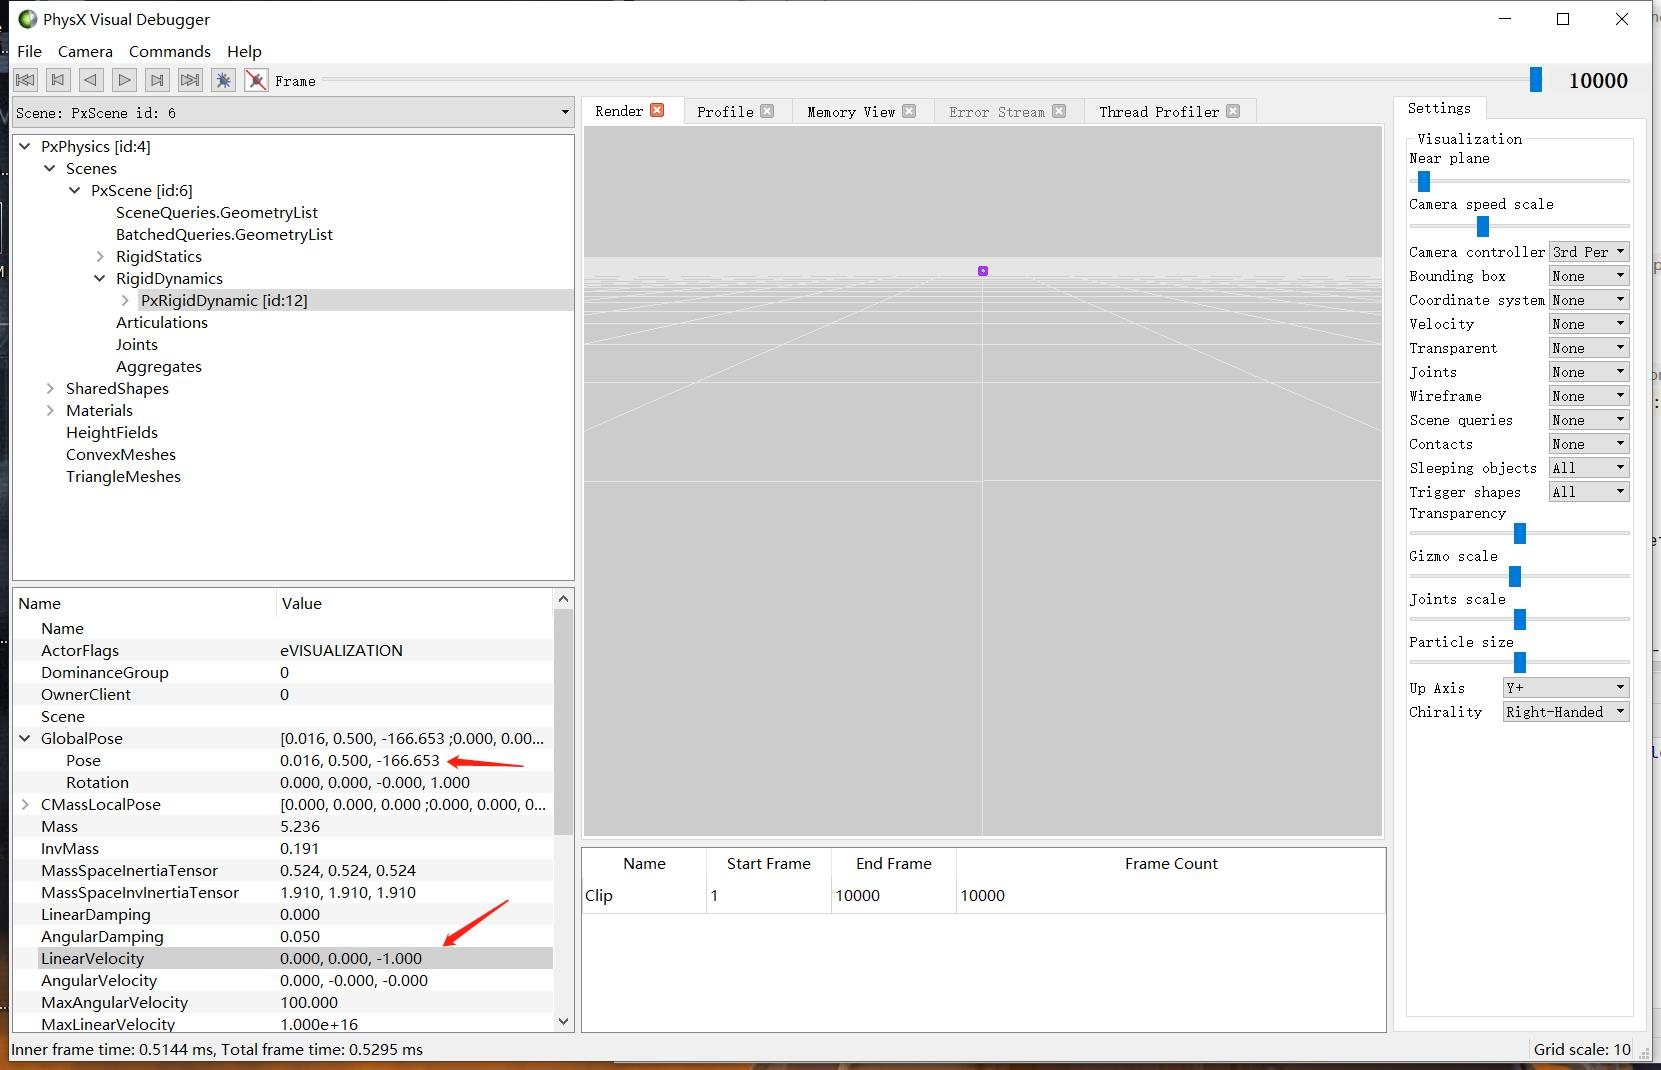
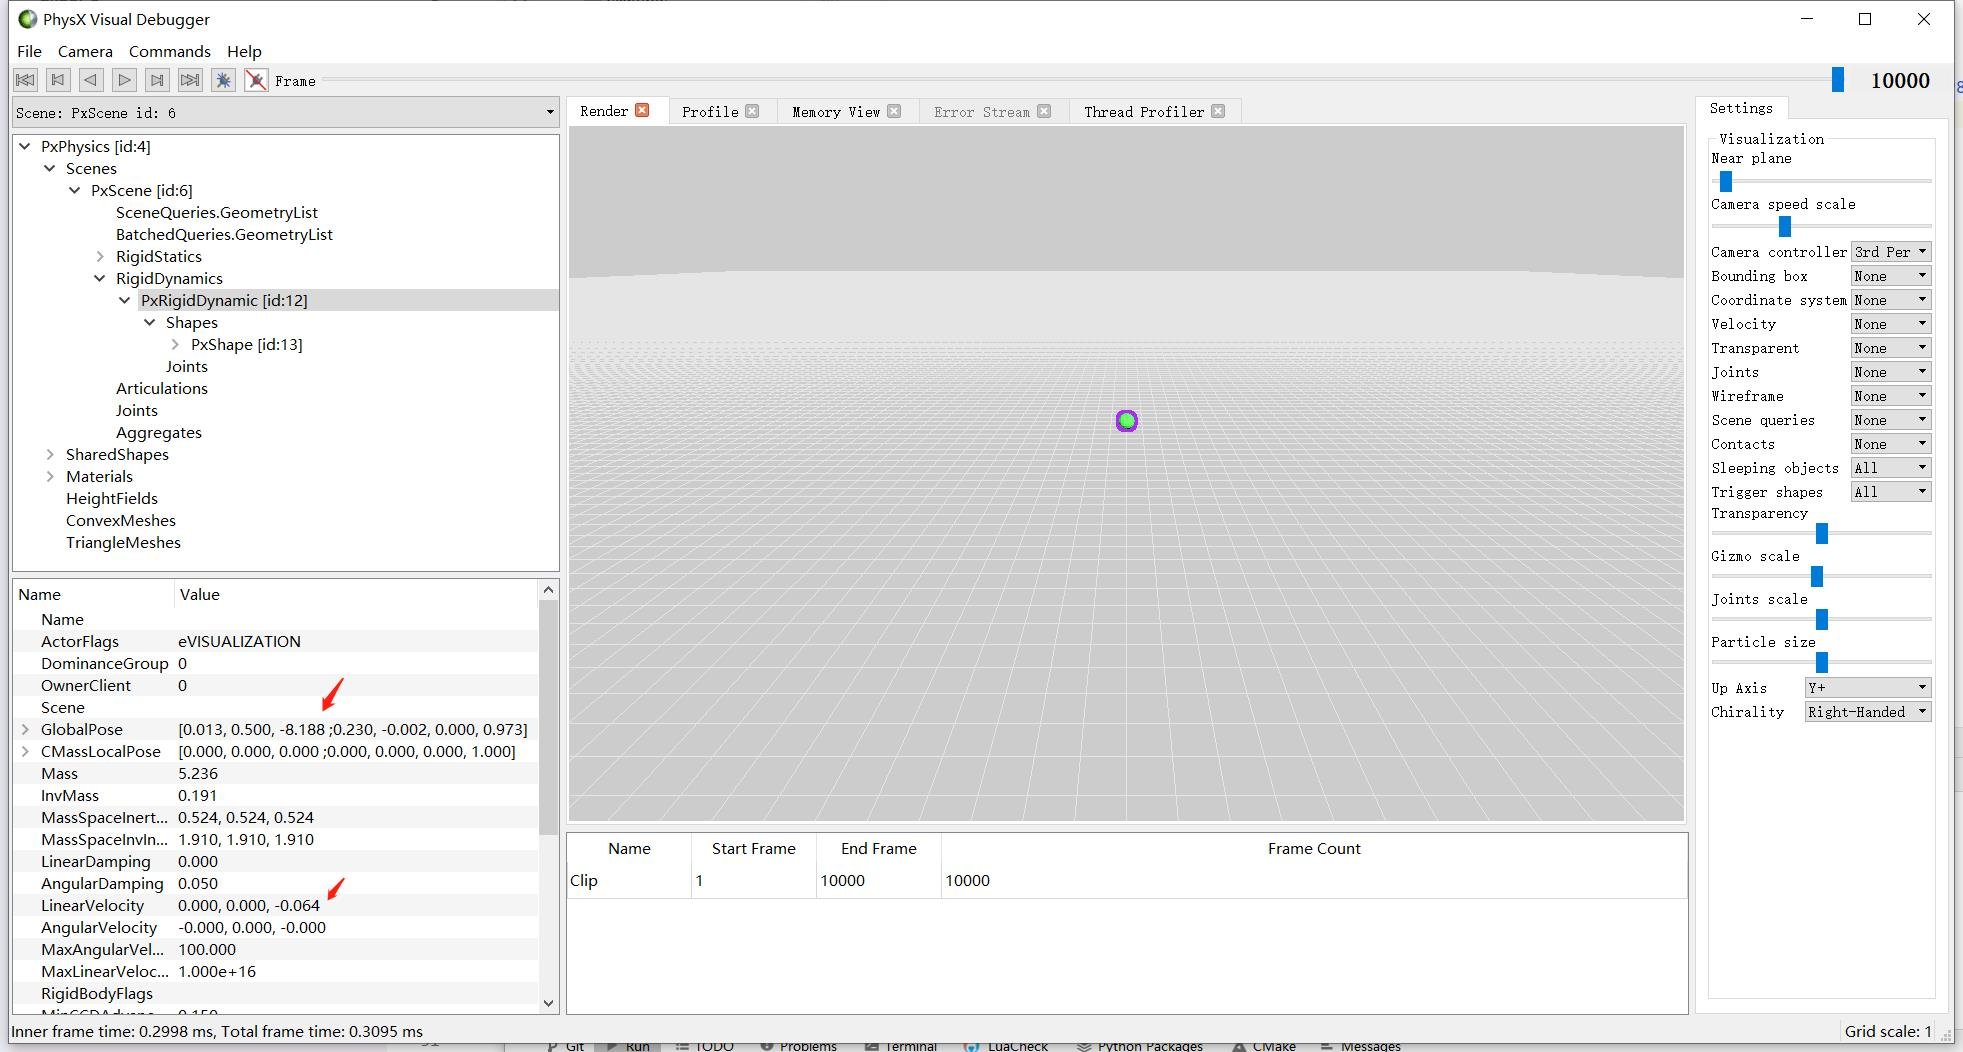
friction test

diff --git a/samples/physx/physx_material_friction/example/main.cpp b/samples/physx/physx_material_friction/example/main.cpp
@@ -60,7 +60,7 @@ void CreateScene(){
 void CreatePlane(){
     //~en Create Physx Material.
     //~zh 创建物理材质
-    PxMaterial* planeMaterial = gPhysics->createMaterial(1.0f, 0.98f, 0.01f);
+    PxMaterial* planeMaterial = gPhysics->createMaterial(98.0f, 100.0f, 0.01f);
 
     //~en Create Plane,add to scene.
     //~zh 创建地板
@@ -87,14 +87,14 @@ void CreateBall(){
     rigidDynamic->attachShape(*shape);
     shape->release();
 
-//    rigidDynamic->setLinearVelocity(PxVec3(0,0,-1));
-
     //~en calculate mass,mass = volume * density
     //~zh 根据体积、密度计算质量
     PxRigidBodyExt::updateMassAndInertia(*rigidDynamic, 10.0f);
 
     gScene->addActor(*rigidDynamic);
 
+    //~en addForce can also make the ball move.
+    //~zh 加上一个力，就可以让小球移动了。注意施加力时，小球必须已经被添加到场景中。
     rigidDynamic->addForce(PxVec3(0,0,-20),PxForceMode::eFORCE,true);
 }
 

diff --git a/pages/22. physics_engine_physx/22.2 physx_material.md b/pages/22. physics_engine_physx/22.2 physx_material.md
@@ -1,21 +1,5 @@
 ## 22.2 物理材质
 
-上一小节在创建地板的时候，创建了物理材质。
-
-```c++
-//~en Create Plane,add to scene.
-//~zh 创建地板
-void CreatePlane(){
-    //~en Create Physx Material.
-    //~zh 创建物理材质
-    gMaterial = gPhysics->createMaterial(0.5f, 0.5f, 0.6f);
-
-    //~en Create Plane,add to scene.
-    //~zh 创建地板
-    ......
-}
-```
-
 所谓材质，就是一系列属性的集合。
 
 模型材质，是渲染这个模型所需要的一系列属性的集合，例如指定贴图、颜色。
@@ -29,6 +13,39 @@ void CreatePlane(){
 打开Physx的API文档 physx/documentation/PhysXGuide/Manual/API.html，搜索函数名 `createMaterial`，就能找到创建物理材质指定的三个参数的含义。
 
 ![](../../imgs/physx/physx_material/api_creatematerial.jpg)
+
+| 属性  | 含义  |
+|---|---|
+| staticFriction  |  静摩擦系数，物体相对静止时与地面的摩擦力系数。 |
+|dynamicFriction|动摩擦系数，物体相对运动时，与地面的摩擦力系数。|
+|restitution|弹性系数|
+
+静摩擦力比动摩擦力大一些。
+
+你使出吃奶的力气推箱子，箱子推动之后，就不用那么大力气了。
+
+箱子动起来的那一个临界点，所需的力气是最大的，就说明箱子与地面摩擦力也是最大的。
+
+箱子动起来之后，不用那么大力气了，就说明箱子与地面摩擦力小了。
+
+数值越大，就代表材质的摩擦力越大，就越难移动。
+
+弹性就很好理解了，皮球从高处掉落，如果忽略各种损失，弹性是1，那么就会弹起来回到原位。
+
+如果弹性是0，那么皮球就像掉落进了泥坑。
+
+### 2. 物理材质属性表现
+
+下面通过2个例子，来分别测试摩擦系数与弹性系数对表现的影响。
+
+### 2.1 摩擦系数
+
+```bash
+CLion项目文件位于 samples\physx\physx_material_friction
+```
+
+情景测试：给小球一个初始速度1.0，对比观察在摩擦系数为0 以及几乎为1的情况下，小球的移动情况。
+
 
 
 
